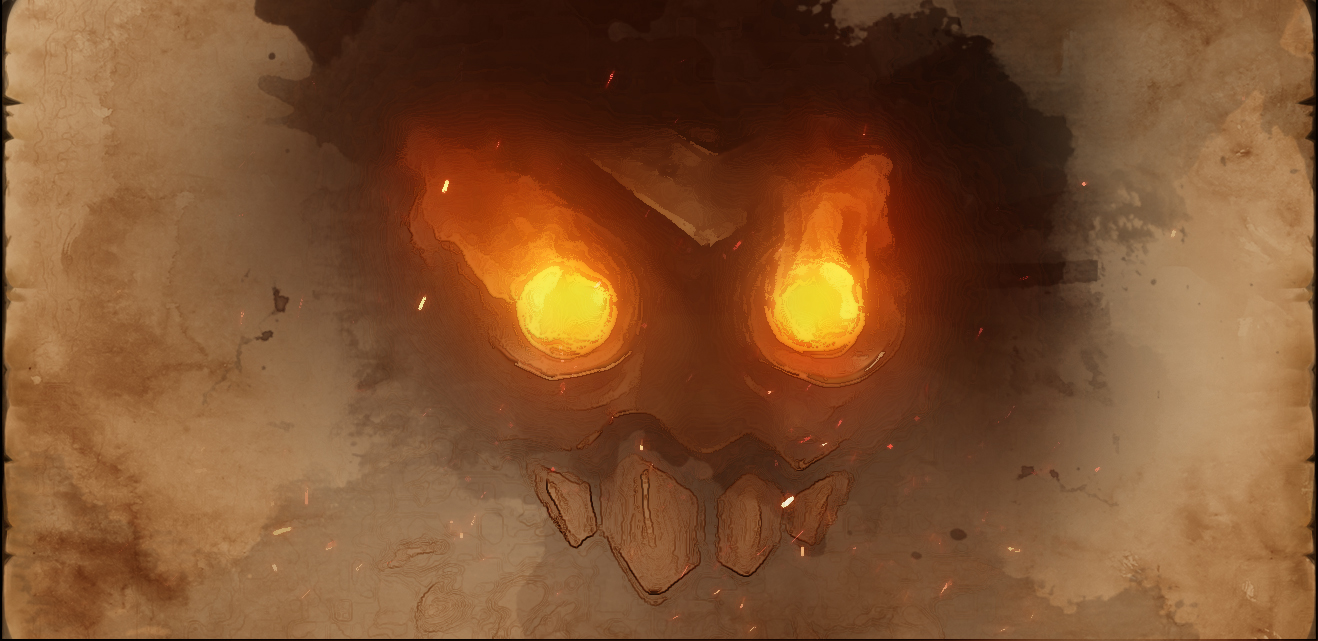
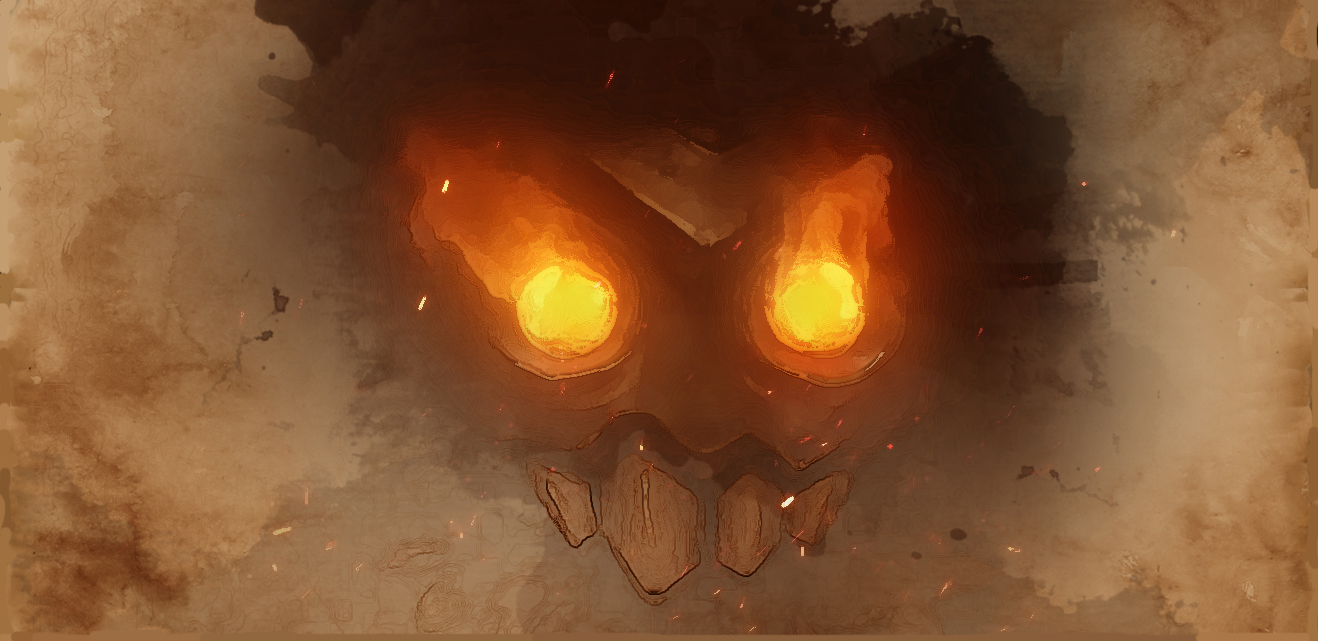
troca de bg e adicionado form de pesquisa

Changed region(s): [[0.9021, 0.0, 1.0, 1.0], [0.0, 0.936, 0.8088, 1.0], [0.0, 0.0, 0.0311, 0.9048]]

diff --git a/css/style.css b/css/style.css
@@ -1,7 +1,7 @@
 @import url("bootstrap.min.css");
 @import url("https://fonts.googleapis.com/css?family=Julius+Sans+One");
 body {
-  background-image: url("../img/bg1.jpg");
+  background-image: url("../img/bg2.png");
   background-repeat: no-repeat;
   background-size: 1920px;
   background-position-x: center;
@@ -21,12 +21,12 @@ header .navbar .logo .imglogo {
 }
 header .navbar .logo .btnlogo {
   font-family: "Julius Sans One", sans-serif;
-  margin-left: 20px;
+  margin-left: 14px;
   margin-right: 500px;
   font-size: 16px;
 }
 header .navbar .logo .btnlogo .btndec {
-  margin-left: 10px;
+  margin-left: 7px;
   font-weight: bold;
   font-size: 20px;
   font-family: "Julius Sans One", sans-serif;
@@ -50,6 +50,20 @@ header .navbar a {
 header .navbar a:hover {
   color: #fa8072;
   text-decoration: none;
+}
+
+section .btn {
+  position: absolute;
+  width: 10%;
+  top: 35%;
+  left: 45%;
+  font-weight: bold;
+}
+section form .row .col {
+  position: absolute;
+  width: 50%;
+  top: 30%;
+  left: 25%;
 }
 
 /*# sourceMappingURL=style.css.map */

diff --git a/css/scss/header.scss b/css/scss/header.scss
@@ -1,7 +1,7 @@
 @import url("bootstrap.min.css");
 @import url('https://fonts.googleapis.com/css?family=Julius+Sans+One');
 body {
-	background-image: url("../img/bg1.jpg");
+	background-image: url("../img/bg2.png");
 	background-repeat: no-repeat;
 	background-size: 1920px;
 	background-position-x: center;  
@@ -19,11 +19,11 @@ header {
 			}
 				.btnlogo {
 					font-family: 'Julius Sans One', sans-serif;
-					margin-left: 20px;
+					margin-left: 14px;
 					margin-right: 500px;
 					font-size: 16px;
 					.btndec {
-						margin-left: 10px; 
+						margin-left: 7px; 
 						font-weight: bold;
 						font-size: 20px;
 						font-family: 'Julius Sans One', sans-serif;
@@ -53,4 +53,23 @@ header {
 			}	
 		}
 	}
+}
+section {
+	.btn {
+		position: absolute;
+		width: 10%;
+		top: 35%;
+		left: 45%;
+		font-weight: bold;
+	}		
+	form {
+		.row {
+			.col {
+				position: absolute;
+				width: 50%;
+				top: 30%;
+				left: 25%;
+				}
+			}
+		}
 }

diff --git a/index.php b/index.php
@@ -1,10 +1,13 @@
 <!DOCTYPE html>
 <html>
+<?php
+	$title="Battlegate";
+ ?>
 
 <head>
 	<meta charset="utf-8">
 	<meta name="viewport" content="width=divice-width, initial-scale=1.0" />
-	<title>Battlegate</title>
+	<title><?php echo $title; ?></title>
 	<link rel="stylesheet" type="text/css" href="css/style.css">
 	<script type="text/javascript" src="js/jquery-3.3.1.min.js"></script>
 	<script type="text/javascript" src="js/bootstrap.min.js"></script>
@@ -25,10 +28,20 @@
 				</ul>
 			</div>
 			<div class="btnsteam">
-				<button type="button" class="btn btn-light">Login Steam</button>
+				<button type="button" class="btn btn-warning">Login Steam</button>
 			</div>	
 		</nav>
 	</header>
 	
+	<section>
+		<form>
+	  		<div class="row">
+	    		<div class="col">
+	      			<input type="text" class="form-control" placeholder="Search by Battlerite username">
+	    		</div>
+			</div>
+		</form>
+			<button type="button" class="btn btn-warning">Search</button>
+	</section>	
 </body>
 </html>
